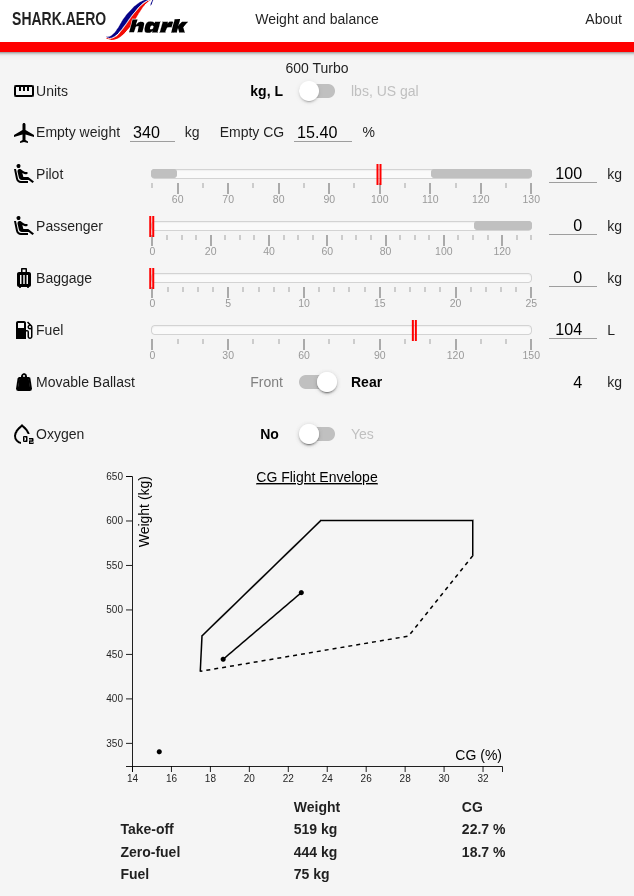
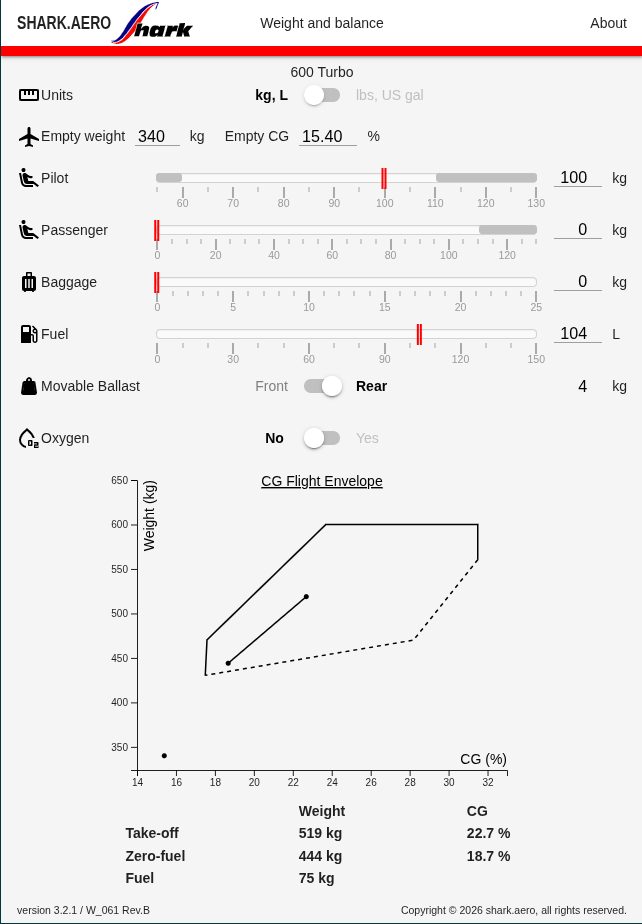
Add manual update button

diff --git a/wb-app-600turbo/js/app.js b/wb-app-600turbo/js/app.js
@@ -1,9 +1,65 @@
+// ------ CLASSIC SERVICE WORKER
 // if ('serviceWorker' in navigator) {
 //     navigator.serviceWorker.register('./sw.js')
 //         .then(reg => console.log('service worker registered'))
 //         .catch(err => console.log('service worker not registered', err));
 // }
+// ------ ------ ------ ------ ------ ------ ------
 
+// ------ INSTALL BUTTON
+// Initialize deferredPrompt for use later to show browser install prompt.
+let deferredPrompt;
+
+let buttonInstall = document.getElementById('button-install');
+
+function showInstallPromotion() {
+    buttonInstall.style.display = 'flex';
+}
+
+function hideInstallPromotion() {
+    buttonInstall.style.display = 'none';
+}
+
+// If not already installed and possile, deferred install prompt, show the install button
+window.addEventListener('beforeinstallprompt', (e) => {
+    // Prevent the mini-infobar from appearing on mobile
+    e.preventDefault();
+    // Stash the event so it can be triggered later.
+    deferredPrompt = e;
+    // Update UI notify the user they can install the PWA
+    showInstallPromotion();
+    // Optionally, send analytics event that PWA install promo was shown.
+    console.log(`'beforeinstallprompt' event was fired.`);
+});
+
+// If clicked, hide the button, and send the install
+buttonInstall.addEventListener('click', async () => {
+    // Hide the app provided install promotion
+    hideInstallPromotion();
+    // Show the install prompt
+    deferredPrompt.prompt();
+    // Wait for the user to respond to the prompt
+    const {
+        outcome
+    } = await deferredPrompt.userChoice;
+    // Optionally, send analytics event with outcome of user choice
+    console.log(`User response to the install prompt: ${outcome}`);
+    // We've used the prompt and can't use it again, throw it away
+    deferredPrompt = null;
+});
+
+// // if already installed
+// window.addEventListener('appinstalled', () => {
+//     // Hide the app-provided install promotion
+//     hideInstallPromotion();
+//     // Clear the deferredPrompt so it can be garbage collected
+//     deferredPrompt = null;
+//     // Optionally, send analytics event to indicate successful install
+//     console.log('PWA was installed');
+// });
+// ------ ------ ------ ------ ------ ------ ------
+
+// ------ UPDATED SERVICE WORKER
 let newWorker;
 
 let updatebar = document.getElementById('updatebar');
@@ -21,7 +77,7 @@ updatebar.addEventListener('click', function() {
 if ('serviceWorker' in navigator) {
     navigator.serviceWorker.register('./sw.js')
         .then((reg) => {
-            console.log(reg)
+            // console.log(reg)
             reg.addEventListener('updatefound', () => {
                 // console.log('update found')
                 // A new service worker has appeared
@@ -52,3 +108,4 @@ if ('serviceWorker' in navigator) {
         refreshing = true;
     });
 }
+// ------ ------ ------ ------ ------ ------ ------

diff --git a/wb-app-600turbo/index.html b/wb-app-600turbo/index.html
@@ -90,12 +90,18 @@
 
         <!-- navbar -->
         <nav>
-            <div class="logo">
+            <div class="logos">
                 <div class="company-name">SHARK.AERO</div>
                 <img src="./img/logo_shark.svg" height="42" alt="logo shark">
             </div>
             <div class="main-title">Weight and balance</div>
-            <a href="./about.html" class="about">About</a>
+            <div class="right-buttons">
+                <div href="" id="button-install" style="display:none">
+                    <img src=" ./img/google-icons/mobile_arrow_down.svg" alt="icon install">
+                    <span class="text-install">Install</span>
+                </div>
+                <a href="./about.html" class="about">About</a>
+            </div>
         </nav>
 
         <!-- certification -->
@@ -148,9 +154,6 @@
             <div class="spacer"></div>
 
             <!-- Passenger -->
-            <!-- <div class="icons">
-                <img src="./img/google-icons/airline_seat_recline_extra-24px.svg" id="icon-pax" alt="icon seat">
-            </div> -->
             <img class="icons" src="./img/google-icons/airline_seat_recline_extra-24px.svg" id="icon-pax" alt="icon seat">
             <div class="title">Passenger</div>
             <div class="slider">
@@ -162,9 +165,6 @@
             <div class="spacer"></div>
 
             <!-- Baggage -->
-            <!-- <div class="icons">
-                <img src="./img/google-icons/luggage-24px.svg" id="icon-baggage" alt="icon baggage">
-            </div> -->
             <img class="icons" src="./img/google-icons/luggage-24px.svg" id="icon-baggage" alt="icon baggage">
             <div class="title">Baggage</div>
             <div class="slider">
@@ -176,9 +176,6 @@
             <div class="spacer"></div>
 
             <!-- Fuel -->
-            <!-- <div class="icons">
-                <img src="./img/google-icons/local_gas_station-24px.svg" id="icon-fuel" alt="icon fuel">
-            </div> -->
             <img class="icons" src="./img/google-icons/local_gas_station-24px.svg" id="icon-fuel" alt="icon fuel">
             <div class="title">Fuel</div>
             <div class="slider">
@@ -274,7 +271,7 @@
 
     <!-- footer -->
     <div class="footer noselect">
-        <div>version 3.2.1 / W_061 Rev.B</div>
+        <div>version 3.3.0 / W_061 Rev.B</div>
         <!-- <div>  All content copyright shark.aero, all rights reserved.</div> -->
         <div id='copyright'>Copyright &copy shark.aero, all rights reserved.</div>
     </div>

diff --git a/wb-app-600turbo/css/styles.css b/wb-app-600turbo/css/styles.css
@@ -44,12 +44,11 @@ body {
 
 
 /* nav bar */
-
 nav {
     background-color: var(--primary);
     border-bottom: 10px solid var(--secondary);
     box-shadow: 0 2px 2px 0 rgba(0, 0, 0, 0.14), 0 3px 1px -2px rgba(0, 0, 0, 0.12), 0 1px 5px 0 rgba(0, 0, 0, 0.20);
-    line-height: 46px;
+    /* line-height: 46px; */
     height: 46px;
     display: grid;
     grid-template-columns: 1fr auto 1fr;
@@ -59,7 +58,7 @@ nav {
 }
 
 nav a {
-    color: var(--title);
+    color: black;
     text-decoration: none;
 }
 
@@ -68,27 +67,55 @@ nav a {
     transform: scaleY(1.25);
 }
 
-.logo {
+.logos {
     display: flex;
+    justify-self: start;
+    align-items: center;
+    gap: 0.5rem;
 }
 
-.logo>* {
+/* .logo>* {
     align-self: center;
-}
+} */
 
 .main-title {
     display: flex;
     align-items: center;
+    justify-content: center;
 }
 
-.about {
-    justify-self: right;
+.right-buttons {
+    display: flex;
+    justify-self: end;
+    align-items: center;
+    gap: 10px;
 }
+
+#button-install {
+    display: flex;
+    cursor: pointer;
+
+    border: 1px solid rgb(0, 0, 0);
+    box-shadow: 0 2px 2px 0 rgba(0, 0, 0, 0.2), 0 3px 1px -2px rgba(0, 0, 0, 0.18), 0 1px 5px 0 rgba(0, 0, 0, 0.25);
+
+    border-radius: 3px;
+    padding: 4px;
+    padding-right: 8px;
+    /* margin-top: 5px; */
+    /* box-shadow: 1px 0 1px #fff inset;
+    background-image: linear-gradient(to bottom, #cfcfcf 0%, #c0c0c0 100%);
+    border-radius: 4px; */
+}
+
 
 @media screen and (max-width: 600px) {
     .company-name {
         display: none;
     }
+
+    /* .text-install {
+        display: none;
+    } */
 }
 
 /* updatebar */

diff --git a/wb-app-600turbo/sw.js b/wb-app-600turbo/sw.js
@@ -1,4 +1,4 @@
-const staticCacheName = 'site-static-v3.2.1';
+const staticCacheName = 'site-static-v3.3.0';
 const assets = [
     './',
     './index.html',
@@ -22,6 +22,9 @@ const assets = [
     './img/google-icons/luggage-24px.svg',
     './img/google-icons/ballast-24px.svg',
     './img/google-icons/straighten_24px.svg',
+    './img/google-icons/oxygen.svg',
+    './img/google-icons/mobile_arrow_down.svg',
+
 ];
 
 // original SW
@@ -54,7 +57,7 @@ self.addEventListener('install', evt => {
 //                 console.log('caching shell assets');
 //                 cache.addAll(assets);
 //             })
-//         })
+//         }) 
 //     )
 // });
 
@@ -90,4 +93,4 @@ self.addEventListener('message', function(event) {
     }
 });
 
-/////
+//
